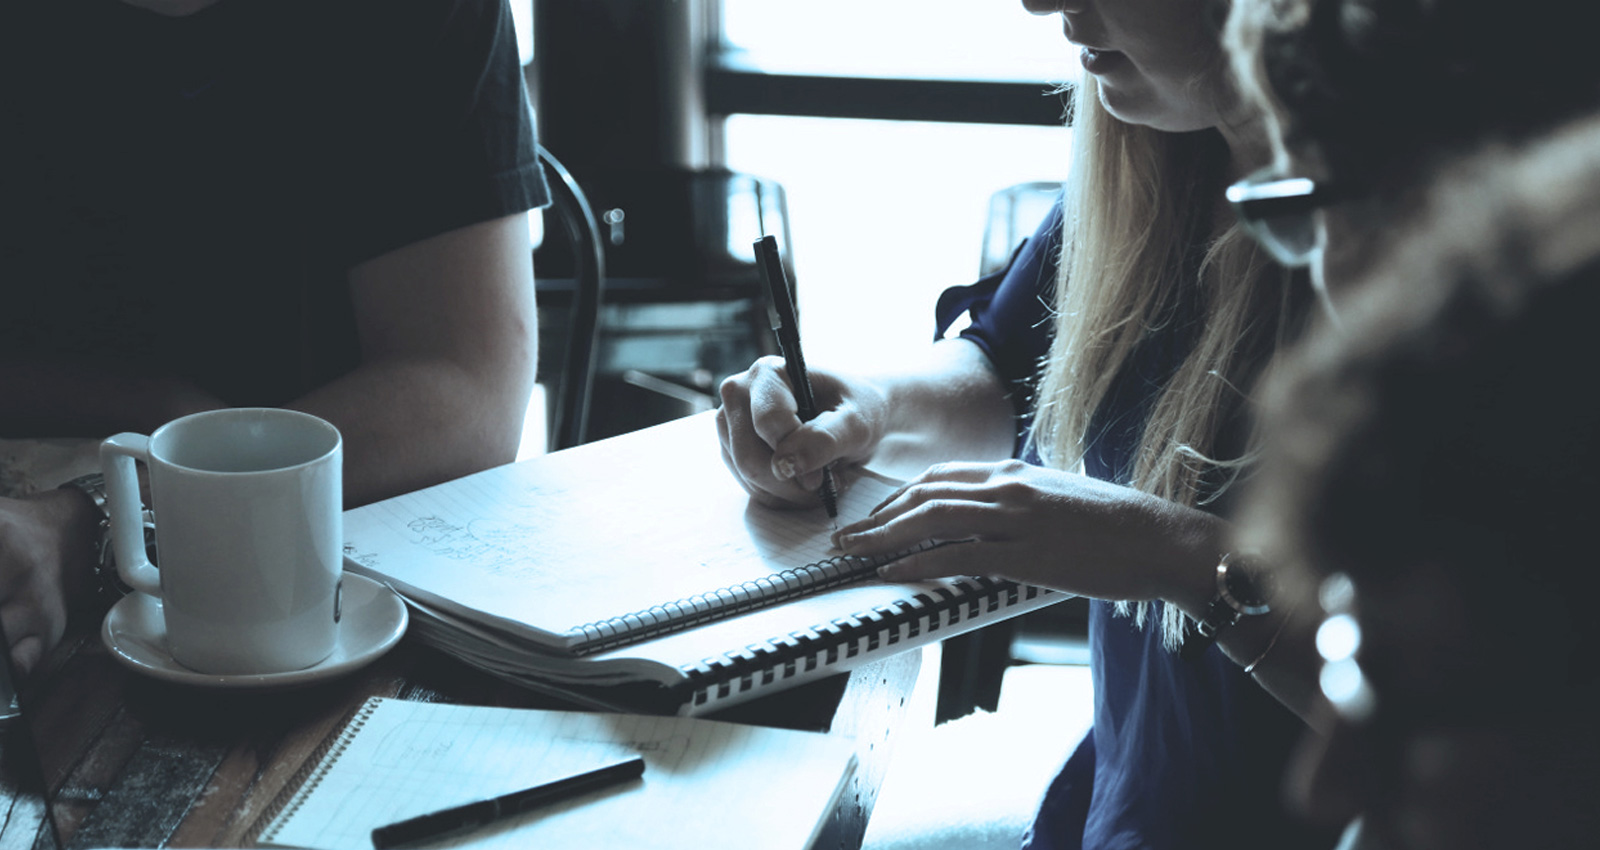
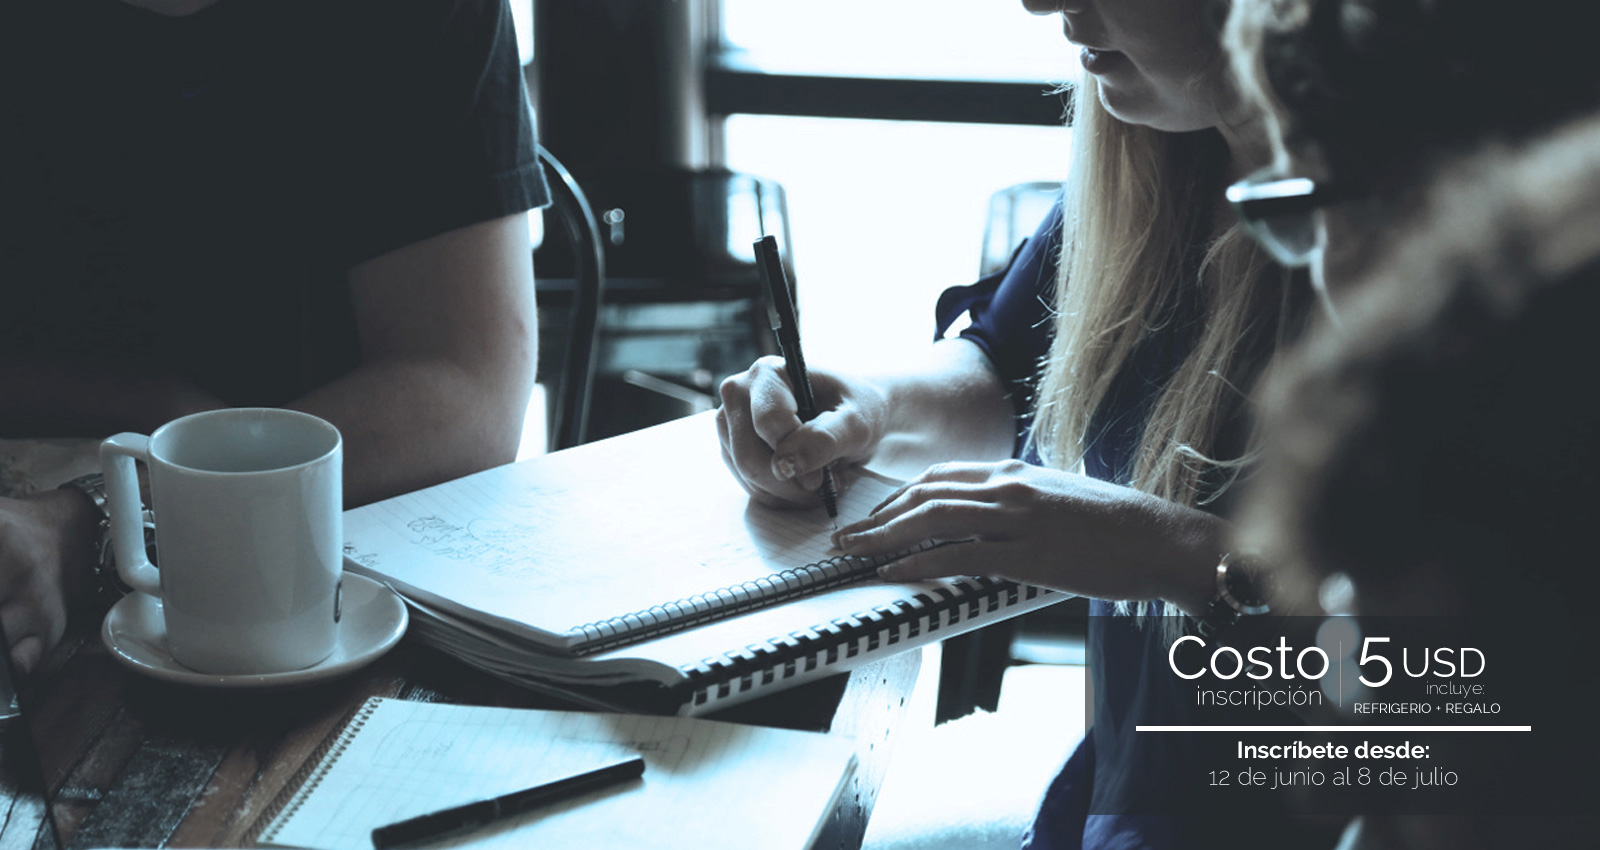
cambio de imágenes y texto

Changed region(s): [[0.6562, 0.7035, 0.9375, 0.9788]]

diff --git a/index.html b/index.html
@@ -5,7 +5,7 @@
     <meta name="viewport" content="width=device-width, initial-scale=1.0">
     <meta name="description" content="">
     <meta name="author" content="">
-    <title>HackMapp | Primer Hackathon del Ecuador | ShapeBootstrap</title>
+    <title>HackMapp | Primer Hackathon del Ecuador </title>
     <link href="css/bootstrap.min.css" rel="stylesheet">
     <link href="css/font-awesome.min.css" rel="stylesheet">
 	<link href="css/main.css" rel="stylesheet">
@@ -39,8 +39,8 @@
 					<div class="pull-right social-icons">
 						 <div class="fb-like" data-href="http://www.infodesarrollo.ec/hackmapp" data-layout="button_count" data-action="like" data-show-faces="false" data-share="false"></div>
 						<a href="#">Mappéate en:</a>
-						<a href="#"><i class="fa fa-twitter"></i></a>
-						<a href="#"><i class="fa fa-facebook"></i></a>
+						<a target="_blank" href="https://twitter.com/hackmapp_Ec"><i class="fa fa-twitter"></i></a>
+						<a target="_blank" href="https://www.facebook.com/hackmappEC"><i class="fa fa-facebook"></i></a>
 						<a href="#"><i class="fa fa-google-plus"></i></a>
 						<a href="#"><i class="fa fa-youtube"></i></a>
 					</div>
@@ -87,7 +87,7 @@
 			</ol>
 			<div class="carousel-inner">
 				<div class="item active">
-					<img class="img-responsive" src="images/slider/bg1.jpg" alt="slider">						
+					<a target="_blank" href="https://goo.gl/kD4aQf"><img class="img-responsive" src="images/slider/bg1.jpg" alt="slider"></a>						
 					<div class="carousel-caption">
 						<h2>INSCRIBETE A TU GRUPO</h2>
 						<h4>DISEÑA Y DESARROLLA</h4>
@@ -95,19 +95,19 @@
 					</div>
 				</div>
 				<div class="item">
-					<img class="img-responsive" src="images/slider/bg2.jpg" alt="slider">	
+					<a href="docs/bases.pdf"><img class="img-responsive" src="images/slider/bg2.jpg" alt="slider"></a>	
 					<div class="carousel-caption">
-						<h2>INSCRIBETE A TU GRUPO</h2>
-						<h4>DISEÑA Y DESARROLLA</h4>
-						<a href="#contact">MAPÉATE AQUÍ<i class="fa fa-angle-right"></i></a>
+						<h2>BASES DEL EVENTO</h2>
+						<h4>¿Quieres saber los detalles?</h4>
+						<a href="docs/bases.pdf">Descárgate el PDF<i class="fa fa-angle-right"></i></a>
 					</div>
 				</div>
 				<div class="item">
 					<img class="img-responsive" src="images/slider/bg3.jpg" alt="slider">	
 					<div class="carousel-caption">
-						<h2>INSCRIBETE A TU GRUPO</h2>
-						<h4>DISEÑA Y DESARROLLA</h4>
-						<a href="#contact" >MAPÉATE AQUÍ<i class="fa fa-angle-right"></i></a>
+						<h2>¿Sabes que es un Hackathon?</h2>
+						<h4>Lo que debes saber</h4>
+						<a href="#event" >Conoce más aquí<i class="fa fa-angle-right"></i></a>
 					</div>
 				</div>				
 			</div>
@@ -235,13 +235,12 @@
 
 	<section id="about">
 		<div class="guitar2">				
-			<img class="img-responsive" src="images/03-handphone.png" alt="guitar">
+			<img class="img-responsive" src="images/03-handphone.png" alt="guitar3">
 		</div>
 		<div class="about-content">					
 					<h2>HACKMAPP</h2>
 					<p>Este sábado 11 y domingo 12 de julio, dará inicio al reto mas grande del Ecuador. Desarrollar la primera app multimedia que ayude a visibilizar la realidad de los barrios y comunidades. Lo haremos de manera colaborativa, trabajando en equipos multidisciplinarios.
-
-Si eres un apasionado de la tecnología, y te preocupa el desarrollo de tu comunidad  ¡Este es tu momento! ¡Te necesitamos!</p>
+					Si eres un apasionado de la tecnología, y te preocupa el desarrollo de tu comunidad  ¡Este es tu momento! ¡Te necesitamos! <br> <br> <b>Periodo de inscripción:</b> 12 de junio hasta el 8 de julio</p>
 					<a target="_blanck" href="https://docs.google.com/forms/d/1nIvlo-LcRrHpXWR37GxbmatWKXUtDwQesAA8qsYZZjw/viewform" class="btn btn-primary">Inscribe tu equipo aquí <i class="fa fa-angle-right"></i></a>
 					<a target="_blanck" href="docs/bases.pdf" class="btn btn-primary">Bases del Hackathon <i class="fa fa-angle-right"></i></a>	
 		</div>
